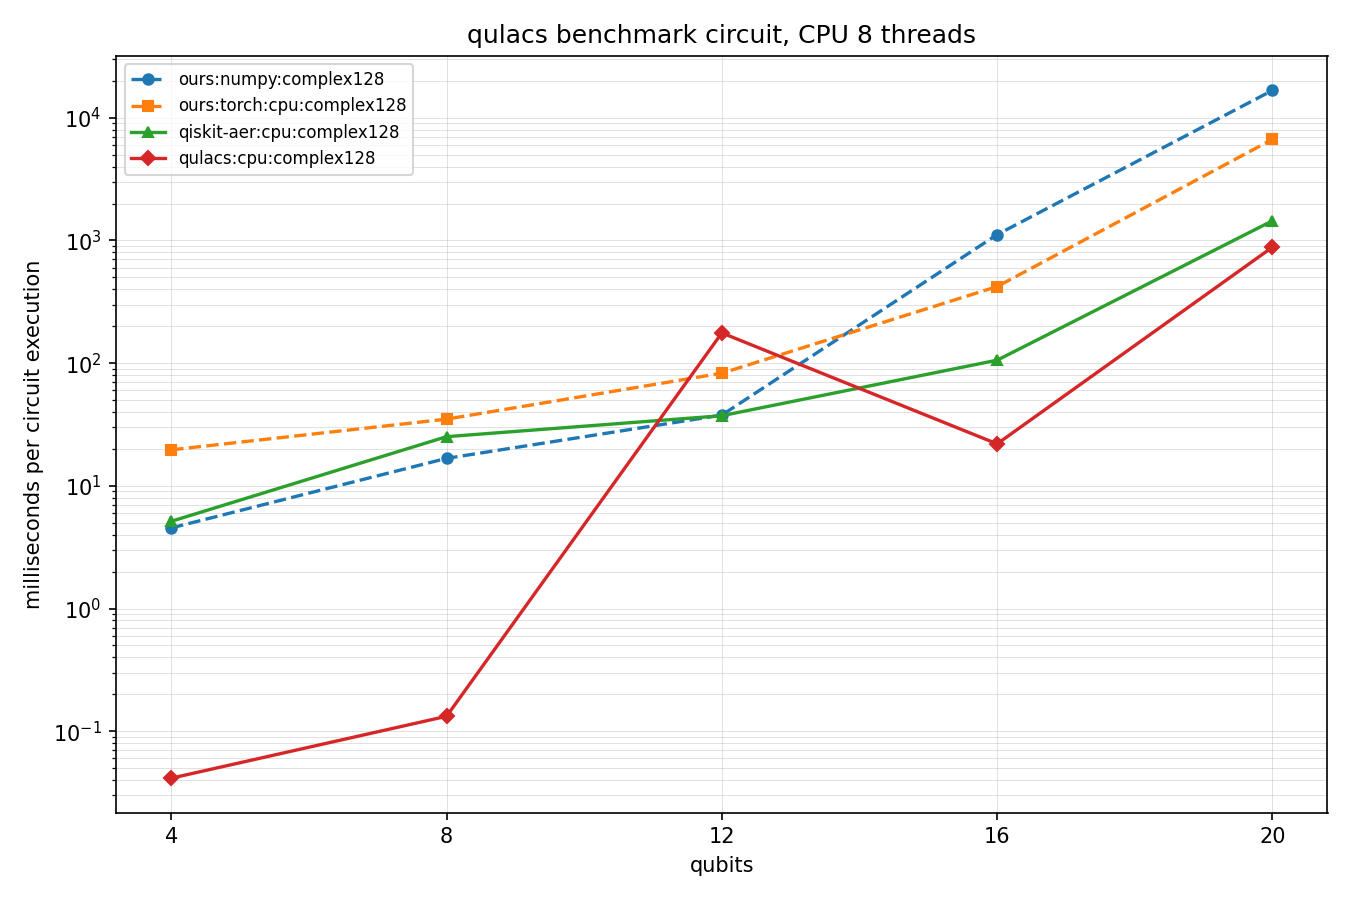
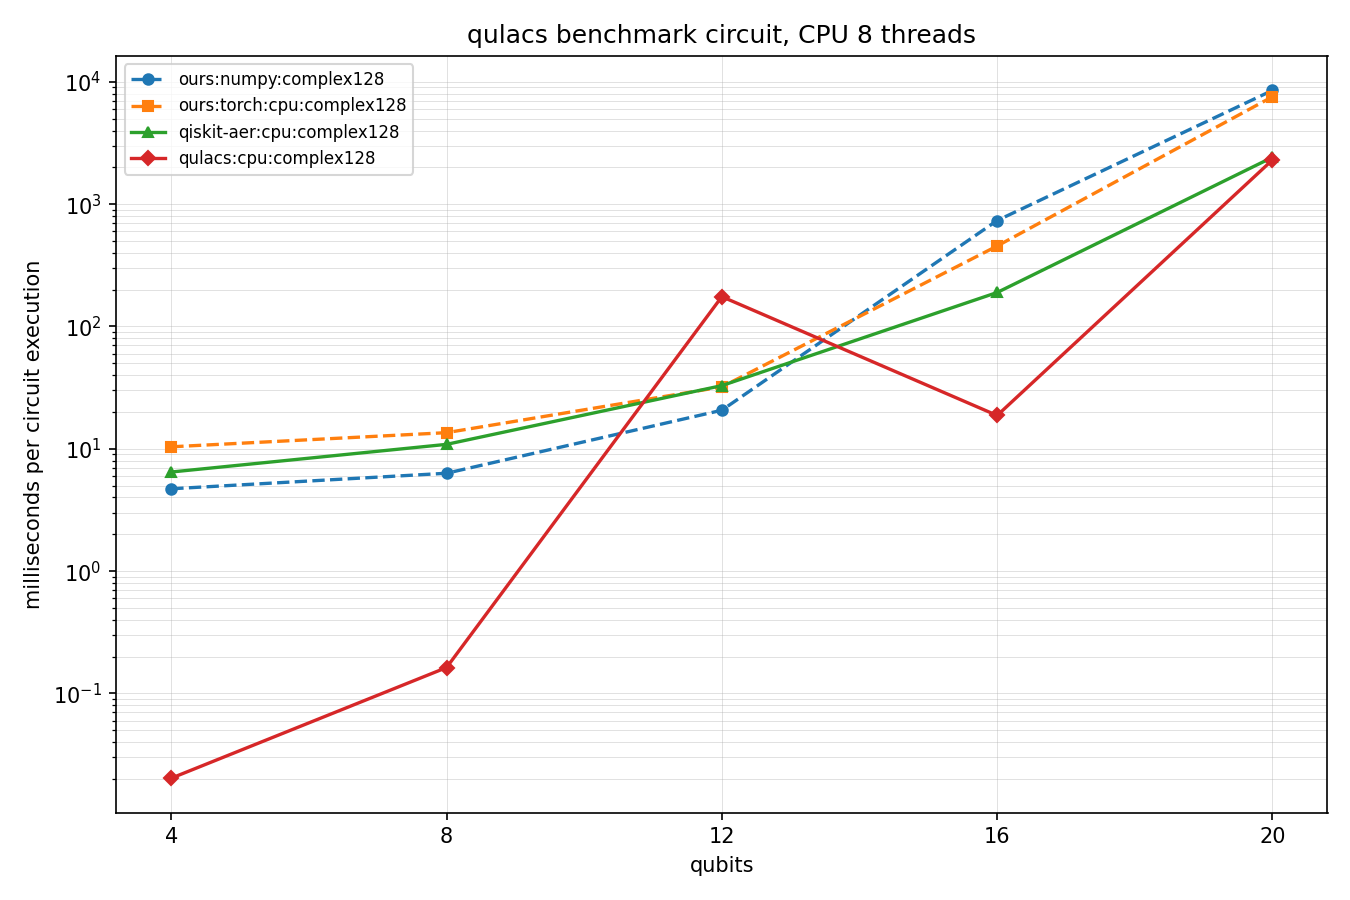
optimize performance

Changed region(s): [[0.0311, 0.0622, 0.9956, 0.8711], [0.0622, 0.1244, 0.0933, 0.1556], [0.0622, 0.0622, 0.0933, 0.0933]]

diff --git a/src/torch_backend.py b/src/torch_backend.py
@@ -78,21 +78,30 @@ class TorchBackend:
 
     def zero_state(self, num_qubits: int) -> Amplitudes:
         amplitudes = self._torch.zeros(
-            1 << num_qubits, dtype=self._dtype, device=self._device
+            (2,) * num_qubits, dtype=self._dtype, device=self._device
         )
-        amplitudes[0] = 1
+        amplitudes[(0,) * num_qubits] = 1
         return amplitudes
 
     def as_amplitudes(self, amplitudes: Any) -> Amplitudes:
         if isinstance(amplitudes, self._torch.Tensor):
-            return amplitudes.detach().clone().to(
+            converted = amplitudes.detach().clone().to(
                 device=self._device, dtype=self._dtype
             )
+        else:
+            array = np.array(amplitudes, dtype=np.complex128, copy=True)
+            converted = self._torch.as_tensor(
+                array, dtype=self._dtype, device=self._device
+            )
+        return self._as_qubit_axes(converted)
 
-        array = np.array(amplitudes, dtype=np.complex128, copy=True)
-        return self._torch.as_tensor(
-            array, dtype=self._dtype, device=self._device
-        )
+    def _as_qubit_axes(self, tensor: Any) -> Any:
+        """Reshape to one axis per qubit, leaving anything else for StateVector to reject."""
+        size = tensor.numel()
+        num_qubits = int(size).bit_length() - 1
+        if size and (1 << num_qubits) == size:
+            return tensor.reshape((2,) * num_qubits)
+        return tensor
 
     def shape(self, amplitudes: Amplitudes) -> tuple[int, ...]:
         return tuple(amplitudes.shape)
@@ -101,7 +110,8 @@ class TorchBackend:
         return bool(self._torch.isfinite(amplitudes).all())
 
     def squared_norm(self, amplitudes: Amplitudes) -> float:
-        return float(self._torch.vdot(amplitudes, amplitudes).real)
+        # torch.vdot is 1-D only, and flattening a permuted state would copy it.
+        return float(self._torch.sum(amplitudes.conj() * amplitudes).real)
 
     def apply(
         self,
@@ -125,11 +135,8 @@ class TorchBackend:
             1 << len(qubits), -1
         )
         updated = matrix @ batched_amplitudes
-        return (
-            updated.reshape((2,) * num_qubits)
-            .permute(inverse_axes)
-            .reshape(-1)
-        )
+        # Returning the permuted view avoids a full copy of the state per gate.
+        return updated.reshape((2,) * num_qubits).permute(inverse_axes)
 
     def probabilities(self, amplitudes: Amplitudes) -> ProbabilityVector:
         return (
@@ -137,6 +144,7 @@ class TorchBackend:
             .abs()
             .pow(2)
             .to(device="cpu", dtype=self._torch.float64)
+            .reshape(-1)
             .numpy()
         )
 
@@ -144,12 +152,13 @@ class TorchBackend:
         return amplitudes.clone()
 
     def inner_product(self, left: Amplitudes, right: Amplitudes) -> complex:
-        return complex(self._torch.vdot(left, right))
+        return complex(self._torch.sum(left.conj() * right))
 
     def to_numpy(self, amplitudes: Amplitudes) -> ComplexVector:
         return (
             amplitudes.detach()
             .to(device="cpu", dtype=self._torch.complex128)
+            .reshape(-1)
             .numpy()
         )
 

diff --git a/src/numpy_backend.py b/src/numpy_backend.py
@@ -26,12 +26,13 @@ class NumpyBackend:
         return self._dtype
 
     def zero_state(self, num_qubits: int) -> Amplitudes:
-        amplitudes = np.zeros(1 << num_qubits, dtype=self._dtype)
-        amplitudes[0] = 1
+        amplitudes = np.zeros((2,) * num_qubits, dtype=self._dtype)
+        amplitudes[(0,) * num_qubits] = 1
         return amplitudes
 
     def as_amplitudes(self, amplitudes: Any) -> Amplitudes:
-        return np.array(amplitudes, dtype=self._dtype, copy=True)
+        array = np.array(amplitudes, dtype=self._dtype, copy=True)
+        return _as_qubit_axes(array)
 
     def shape(self, amplitudes: Amplitudes) -> tuple[int, ...]:
         return tuple(amplitudes.shape)
@@ -40,6 +41,7 @@ class NumpyBackend:
         return bool(np.isfinite(amplitudes).all())
 
     def squared_norm(self, amplitudes: Amplitudes) -> float:
+        # np.vdot flattens its operands, so the axis layout does not matter.
         return float(np.vdot(amplitudes, amplitudes).real)
 
     def apply(
@@ -62,14 +64,11 @@ class NumpyBackend:
         )
         matrix = np.asarray(operation.matrix, dtype=self._dtype)
         updated = matrix @ batched_amplitudes
-        return (
-            updated.reshape((2,) * num_qubits)
-            .transpose(inverse_axes)
-            .reshape(-1)
-        )
+        return updated.reshape((2,) * num_qubits).transpose(inverse_axes)
 
     def probabilities(self, amplitudes: Amplitudes) -> ProbabilityVector:
-        return (np.abs(amplitudes) ** 2).astype(np.float64, copy=False)
+        probabilities = np.abs(amplitudes) ** 2
+        return probabilities.astype(np.float64, copy=False).reshape(-1)
 
     def inner_product(self, left: Amplitudes, right: Amplitudes) -> complex:
         return complex(np.vdot(left, right))
@@ -78,7 +77,16 @@ class NumpyBackend:
         return amplitudes.copy()
 
     def to_numpy(self, amplitudes: Amplitudes) -> ComplexVector:
-        return np.asarray(amplitudes, dtype=np.complex128)
+        return np.asarray(amplitudes, dtype=np.complex128).reshape(-1)
+
+
+def _as_qubit_axes(array: Amplitudes) -> Amplitudes:
+    """Reshape to one axis per qubit, leaving anything else for StateVector to reject."""
+    size = array.size
+    num_qubits = int(size).bit_length() - 1
+    if size and (1 << num_qubits) == size:
+        return array.reshape((2,) * num_qubits)
+    return array
 
 
 __all__ = ["NumpyBackend"]

diff --git a/experiments/test-reshape-perf.py b/experiments/test-reshape-perf.py
@@ -1,0 +1,60 @@
+import argparse
+from time import perf_counter
+
+import numpy
+import torch
+
+
+parser = argparse.ArgumentParser(description="Test tensor reshape performance.")
+parser.add_argument(
+    "--device",
+    choices=("cpu", "cuda", "supa"),
+    required=True,
+)
+args = parser.parse_args()
+
+if args.device == "supa":
+    import torch_br
+
+REPEATS = 10
+
+for num_qubits in [16, 20, 24]:
+    arr = numpy.random.rand(1 << num_qubits).astype(numpy.complex64)
+    matrix = numpy.random.rand(2, 2).astype(numpy.complex64)
+    statevector = torch.from_numpy(arr)
+    matrix_tensor = torch.from_numpy(matrix)
+    if args.device == "cuda":
+        statevector = statevector.cuda()
+        matrix_tensor = matrix_tensor.cuda()
+    elif args.device == "supa":
+        statevector = statevector.supa()
+        matrix_tensor = matrix_tensor.supa()
+
+    qubits = [0]
+    target_axes = [num_qubits - 1 - qubit for qubit in qubits]
+    remaining_axes = [
+        axis for axis in range(num_qubits) if axis not in target_axes
+    ]
+    axes = target_axes + remaining_axes
+    inverse_axes = [0] * num_qubits
+    for position, axis in enumerate(axes):
+        inverse_axes[axis] = position
+
+    # 冷启动一次
+    updated = statevector.reshape((2, ) * num_qubits)
+    updated = updated.permute(axes).reshape(2, -1)
+    updated = matrix_tensor @ updated
+    updated = updated.reshape((2,) * num_qubits).permute(inverse_axes).reshape(-1)
+
+    start_time = perf_counter()
+    for i in range(REPEATS):
+        updated = statevector.reshape((2, ) * num_qubits)
+        updated = updated.permute(axes).reshape(2, -1)
+        updated = matrix_tensor @ updated
+        updated = updated.reshape((2,) * num_qubits)
+    cost_before_sync = (perf_counter() - start_time) / REPEATS * 1000
+    if args.device != "cpu":
+        getattr(torch, args.device).synchronize()
+    cost = (perf_counter() - start_time) / REPEATS * 1000
+
+    print(f"{num_qubits} reshape cost {cost} ms, before sync {cost_before_sync} ms")

diff --git a/tests/test_backend.py b/tests/test_backend.py
@@ -188,6 +188,38 @@ class BackendConformanceTests(unittest.TestCase):
                 with self.assertRaisesRegex(ValueError, "finite"):
                     StateVector(1, [np.nan, 0], backend=backend)
 
+    def test_backend_stores_one_axis_per_qubit(self) -> None:
+        # Gates would otherwise have to flatten a permuted state on every call,
+        # which copies the whole vector.
+        for backend in available_backends():
+            with self.subTest(backend=backend.name):
+                state = StateVector(3, backend=backend)
+                self.assertEqual(tuple(state.raw_amplitudes.shape), (2, 2, 2))
+
+                state.apply(H(0)).apply(CX(0, 1)).apply(X(2))
+                self.assertEqual(tuple(state.raw_amplitudes.shape), (2, 2, 2))
+
+    def test_readout_stays_flat(self) -> None:
+        for backend in available_backends():
+            with self.subTest(backend=backend.name):
+                state = StateVector(3, backend=backend).apply(H(0)).apply(CX(0, 2))
+
+                self.assertEqual(state.amplitudes.shape, (8,))
+                self.assertEqual(state.probabilities.shape, (8,))
+
+    def test_accepts_amplitudes_in_either_shape(self) -> None:
+        flat = [1 / np.sqrt(2), 0, 0, 1 / np.sqrt(2)]
+        for backend in available_backends():
+            with self.subTest(backend=backend.name):
+                from_flat = StateVector(2, flat, backend=backend)
+                from_tensor = StateVector(
+                    2, np.reshape(flat, (2, 2)), backend=backend
+                )
+
+                np.testing.assert_allclose(
+                    from_flat.amplitudes, from_tensor.amplitudes, atol=TOLERANCE
+                )
+
     def test_rejects_operation_outside_statevector(self) -> None:
         for backend in available_backends():
             with self.subTest(backend=backend.name):

diff --git a/src/statevector.py b/src/statevector.py
@@ -34,7 +34,9 @@ class StateVector:
         dimension = 1 << self._num_qubits
         normalized_amplitudes = self._backend.as_amplitudes(amplitudes)
         actual_shape = self._backend.shape(normalized_amplitudes)
-        if actual_shape != (dimension,):
+        # Backends carry one axis per qubit so a gate never has to flatten the
+        # state; the flat view is produced only on readout.
+        if actual_shape != (2,) * self._num_qubits:
             raise ValueError(
                 f"amplitudes must have shape ({dimension},), "
                 f"but received {actual_shape}"
